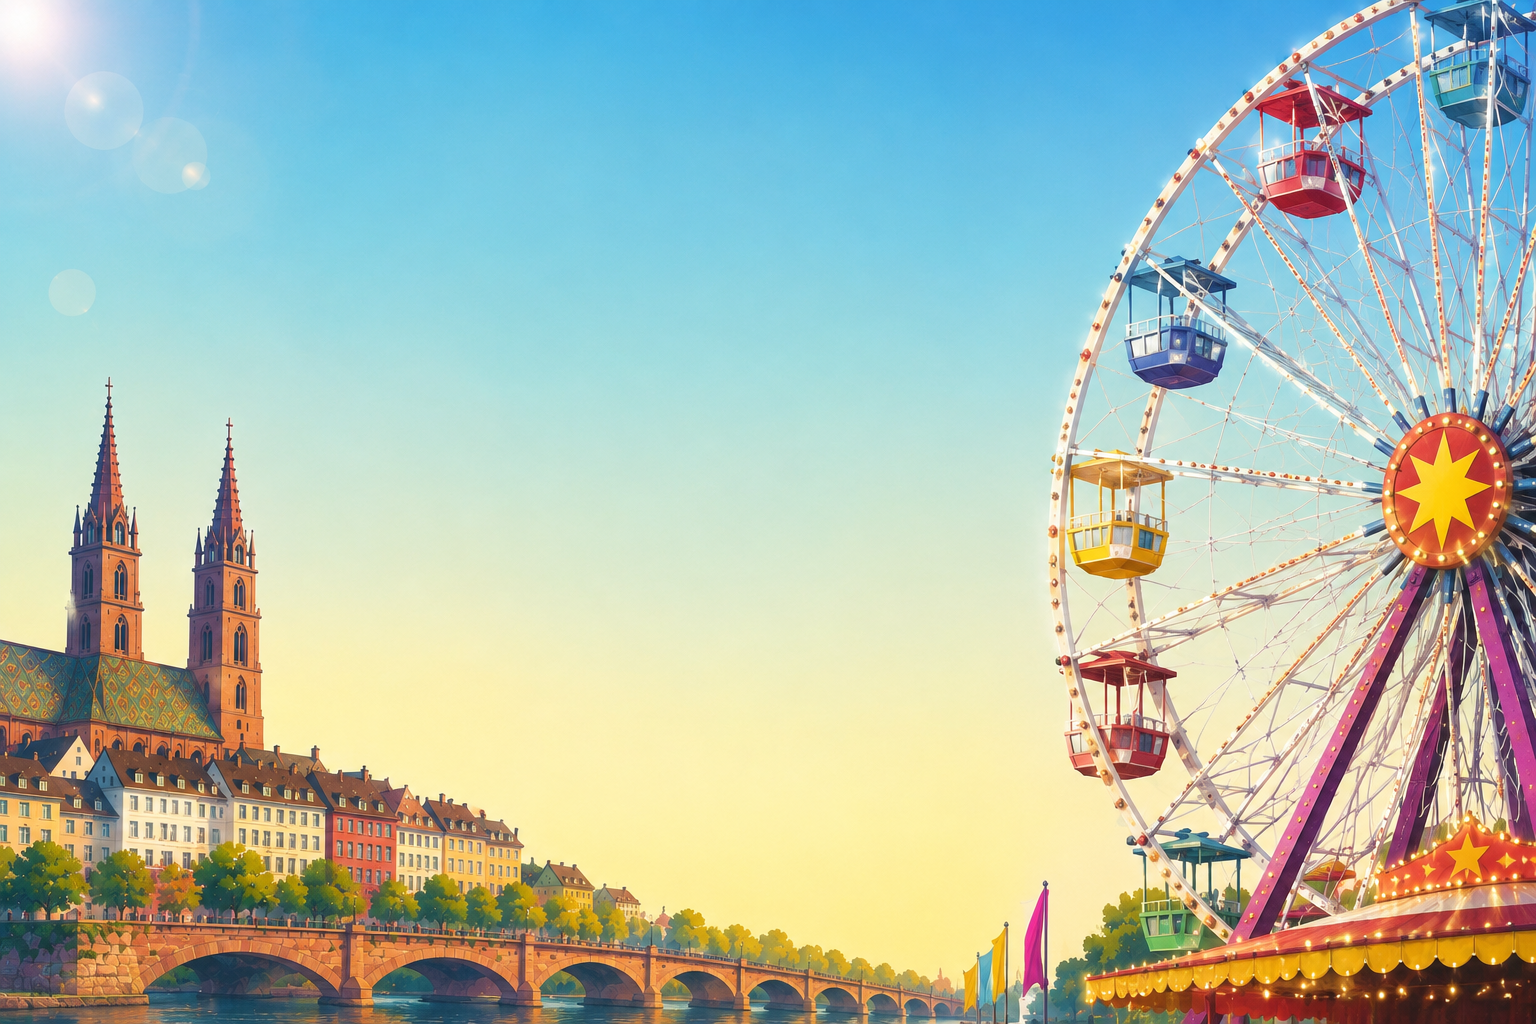
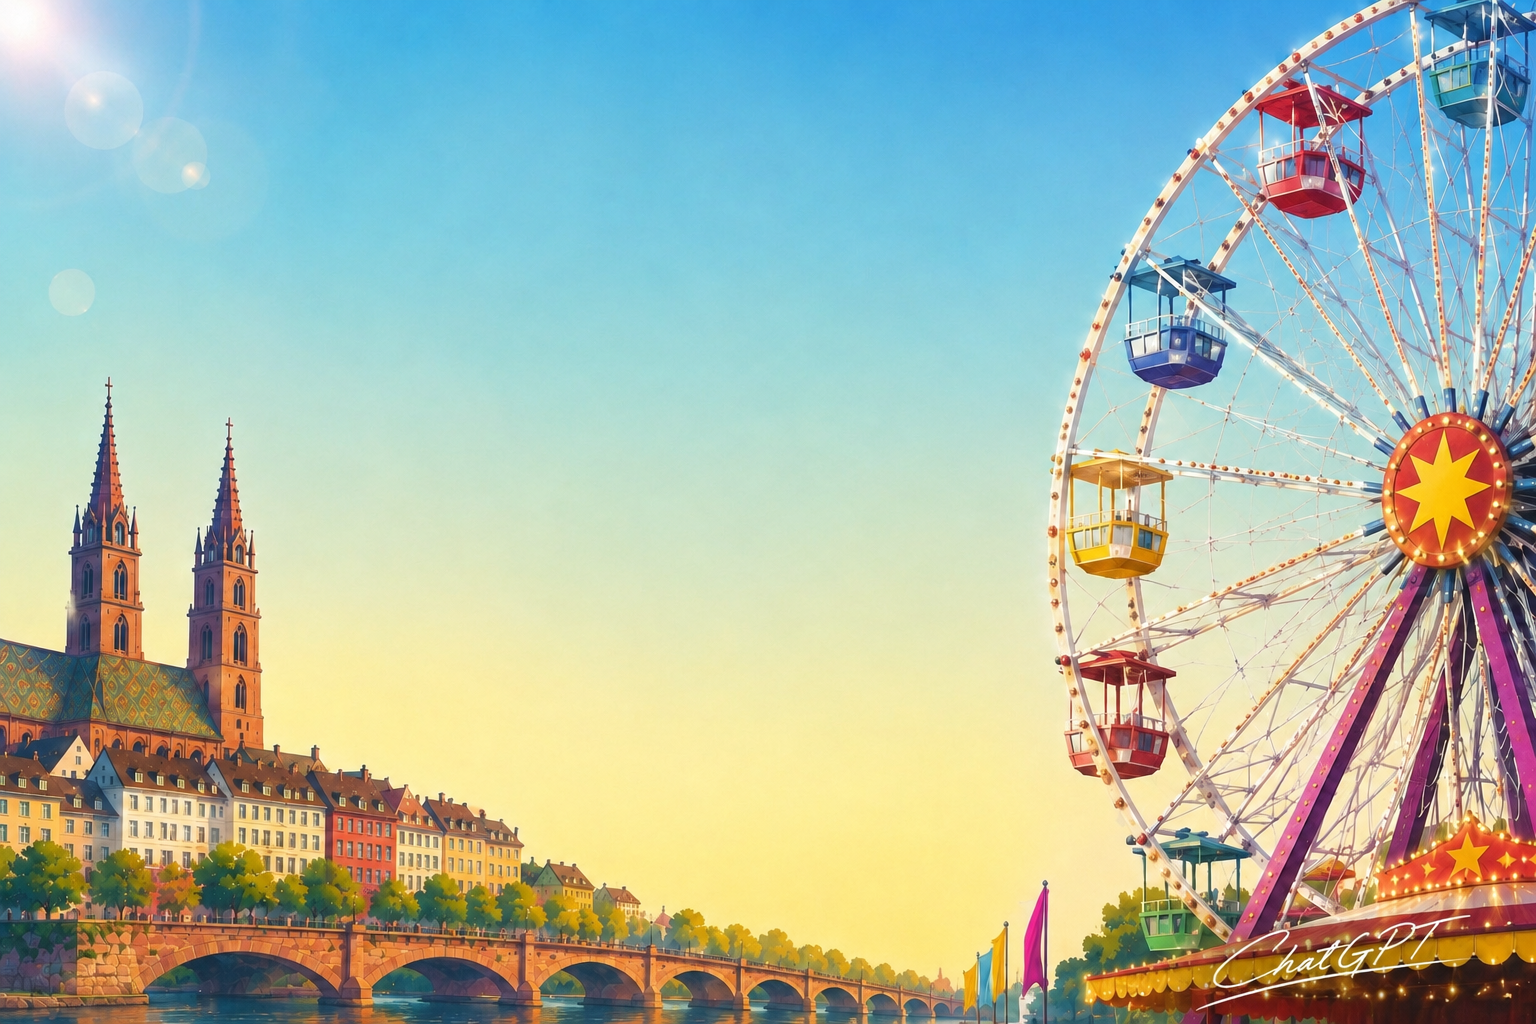
übersetzungen umgesetzt

diff --git a/frontend/features/auth/pages/start/maesspaeggli-start.component.html b/frontend/features/auth/pages/start/maesspaeggli-start.component.html
@@ -3,17 +3,16 @@
     <mat-card-content>
       <section class="intro">
         <div class="intro__content">
-          <h1>Mässpäggli bekommen</h1>
+          <h1>{{ 'app.anmeldung.title' | translate }}</h1>
 
           <p class="lead">
-            Schreib deine E-Mail-Adresse hier hinein. Wir schicken dir dann die nächsten Schritte per
-            E-Mail.
+            {{ 'app.anmeldung.lead' | translate }}
           </p>
 
           <div class="info-box">
             <mat-icon aria-hidden="true">info</mat-icon>
             <p>
-              Hast du ein Konto bei <strong>Fairgate</strong>? Dann gib hier dieselbe E-Mail-Adresse ein.
+              {{ 'app.anmeldung.fairgate' | translate }}
             </p>
           </div>
         </div>
@@ -25,11 +24,11 @@
       </section>
 
       <section class="email-section" aria-labelledby="email-heading">
-        <h2 id="email-heading">Deine E-Mail-Adresse</h2>
+        <h2 id="email-heading">{{ 'app.anmeldung.emailHeading' | translate }}</h2>
 
         <form [formGroup]="form" (ngSubmit)="submit()" class="email-form">
           <mat-form-field appearance="outline" class="email-field">
-            <mat-label>E-Mail-Adresse</mat-label>
+            <mat-label>{{ 'app.anmeldung.emailLabel' | translate }}</mat-label>
             <mat-icon matPrefix>mail</mat-icon>
 
             <input
@@ -37,13 +36,13 @@
               type="email"
               formControlName="email"
               autocomplete="email"
-              placeholder="name@example.com"
+              [placeholder]="'app.anmeldung.emailPlaceholder' | translate"
             >
 
             @if (form.controls.email.hasError('required')) {
-              <mat-error>Bitte gib deine E-Mail-Adresse ein.</mat-error>
+              <mat-error>{{ 'app.anmeldung.requiredError' | translate }}</mat-error>
             } @else if (form.controls.email.hasError('email')) {
-              <mat-error>Bitte prüfe deine E-Mail-Adresse.</mat-error>
+              <mat-error>{{ 'app.anmeldung.invalidEmailError' | translate }}</mat-error>
             }
           </mat-form-field>
 
@@ -52,13 +51,13 @@
             type="submit"
             class="continue-button"
           >
-            Weiter
+            {{ 'app.anmeldung.continue' | translate }}
           </button>
         </form>
 
         <p class="privacy-hint">
           <mat-icon aria-hidden="true">lock</mat-icon>
-          Wir behandeln deine Daten vertraulich.
+          {{ 'app.anmeldung.privacyHint' | translate }}
         </p>
       </section>
 
@@ -66,10 +65,9 @@
       <section class="privacy-box">
         <mat-icon aria-hidden="true">shield</mat-icon>
         <div>
-          <h2>Deine Daten bleiben privat</h2>
+          <h2>{{ 'app.anmeldung.privacyTitle' | translate }}</h2>
           <p>
-            Wir prüfen deine Angaben. Auf dieser Seite zeigen wir nicht, ob diese E-Mail-Adresse bei uns
-            oder bei Fairgate gespeichert ist. Die nächsten Schritte schicken wir dir per E-Mail.
+            {{ 'app.anmeldung.privacyText' | translate }}
           </p>
         </div>
       </section>

diff --git a/frontend/features/auth/pages/start/maesspaeggli-start.component.ts b/frontend/features/auth/pages/start/maesspaeggli-start.component.ts
@@ -5,6 +5,7 @@ import { MatCardModule } from '@angular/material/card';
 import { MatFormFieldModule } from '@angular/material/form-field';
 import { MatIconModule } from '@angular/material/icon';
 import { MatInputModule } from '@angular/material/input';
+import { TranslatePipe } from '@ngx-translate/core';
 
 @Component({
   selector: 'app-maesspaeggli-start',
@@ -16,6 +17,7 @@ import { MatInputModule } from '@angular/material/input';
     MatFormFieldModule,
     MatIconModule,
     MatInputModule,
+    TranslatePipe,
   ],
   templateUrl: './maesspaeggli-start.component.html',
   styleUrl: './maesspaeggli-start.component.scss',
